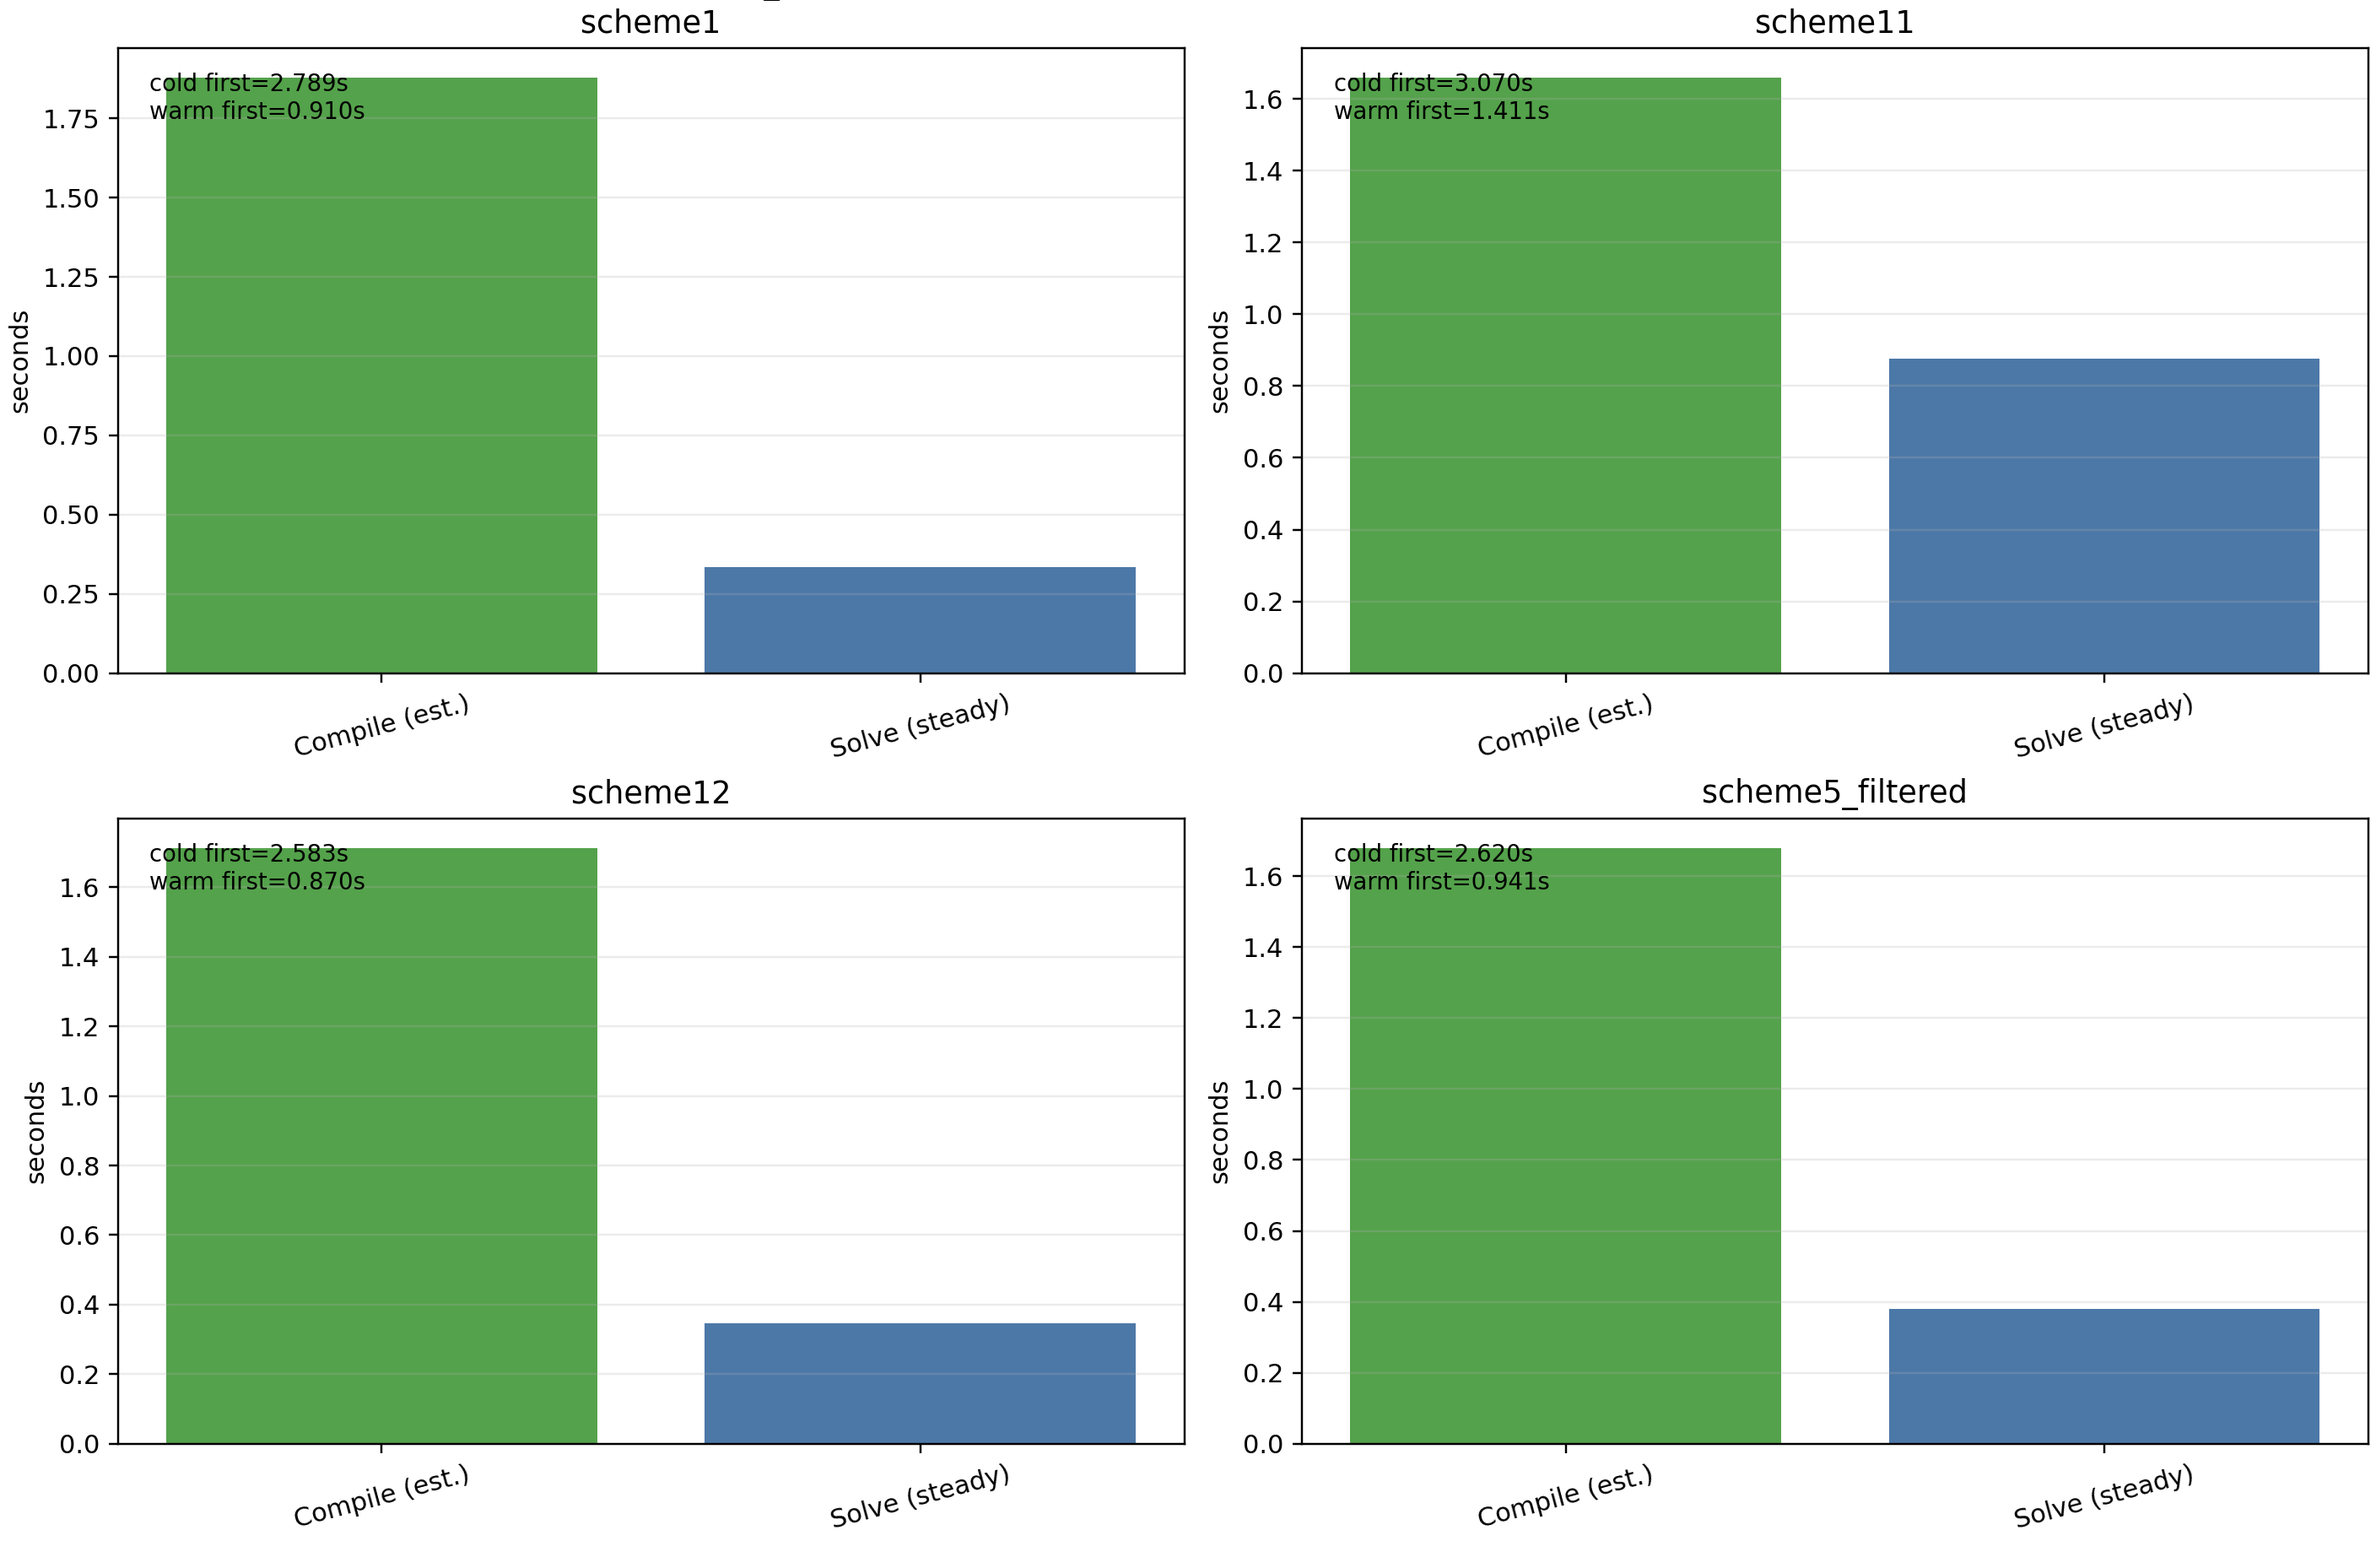
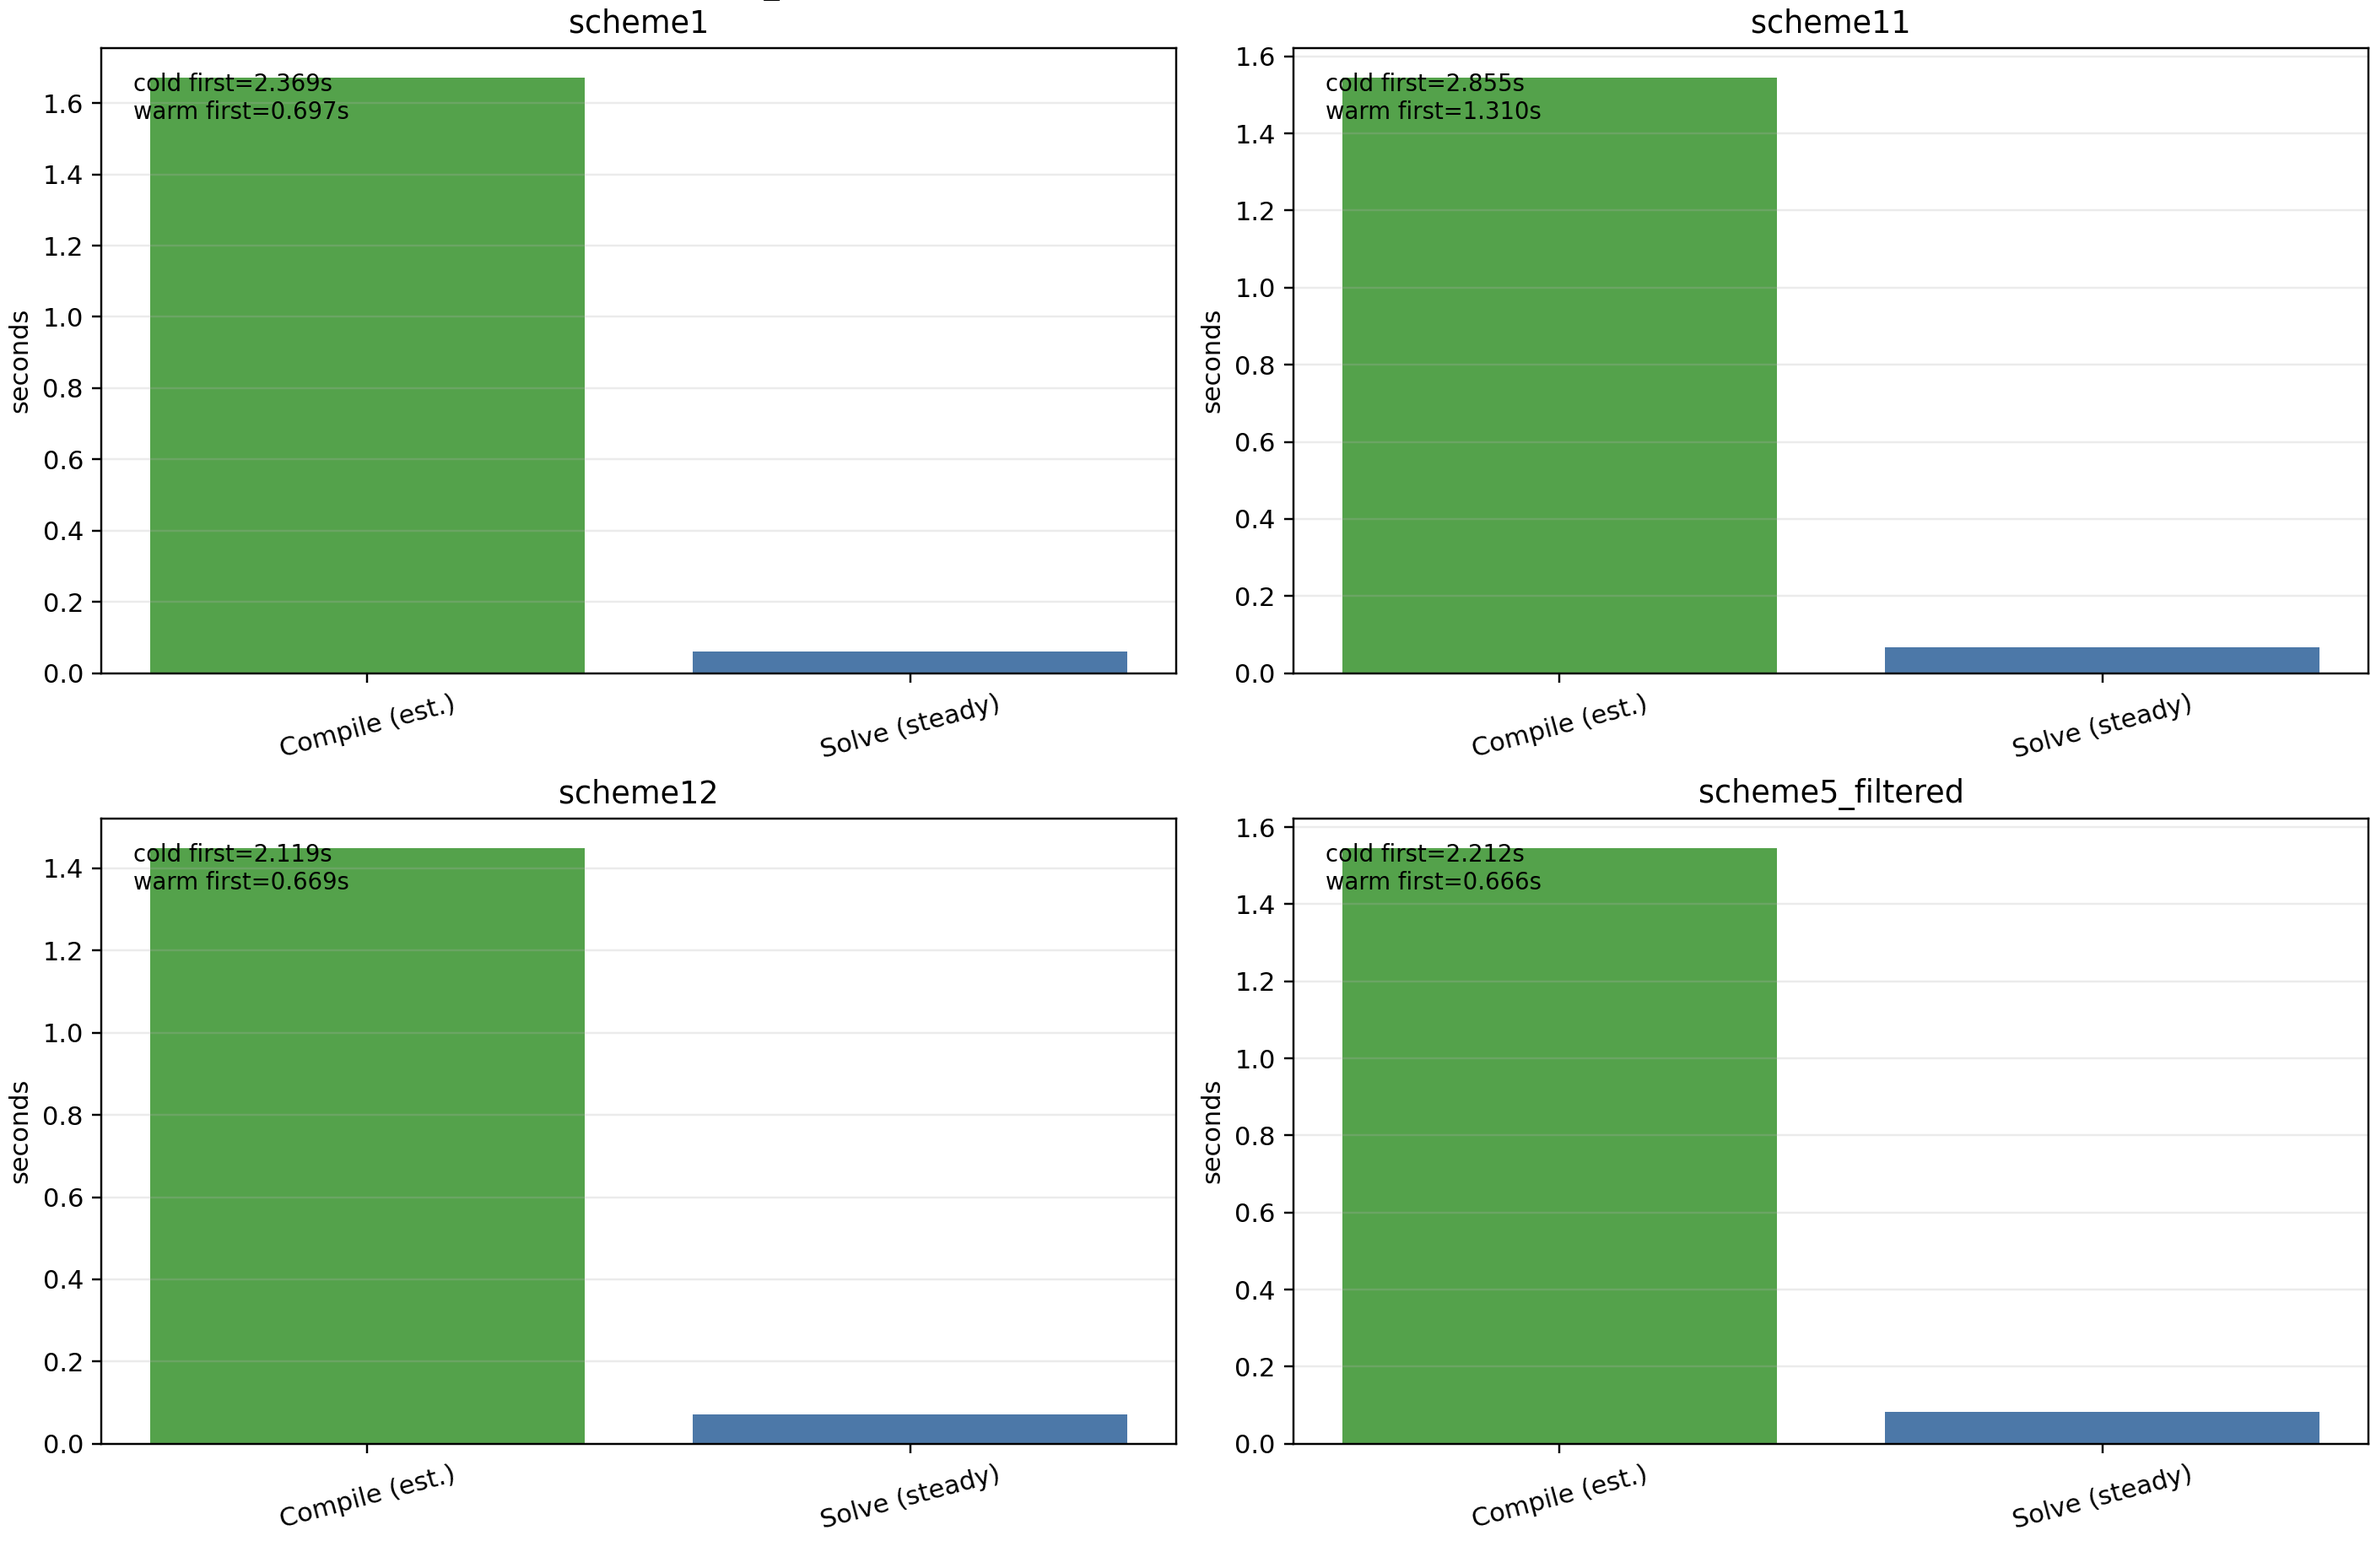
Improve diagnostics performance and cache Boozer parsing

diff --git a/docs/performance.rst b/docs/performance.rst
@@ -49,6 +49,14 @@ JAX-native performance patterns used in `sfincs_jax`
 - **Vectorized RHSMode=1 diagnostics**: vm-only moment/flux accumulation and output shaping are
   stacked/batched in JAX for non-``Phi1`` runs, reducing Python-loop overhead during
   ``write_sfincs_jax_output_h5(..., compute_solution=True)``.
+- **Fast weighted reductions in diagnostics**: transport/rhsmode1 weighted sums now use
+  fused ``einsum`` kernels by default (with an opt-in strict-order fallback), reducing
+  diagnostic accumulation overhead in both RHSMode=1 and RHSMode=2/3 paths.
+- **Cached Boozer `.bc` parsing**: scheme11/12 geometry loading now caches parsed
+  surfaces keyed by file path + stat metadata, removing repeated header/surface parse work
+  within repeated runs and benchmark loops.
+- **Vectorized NTV accumulation across nonlinear iterates**: RHSMode=1 output writing now
+  computes NTV from stacked iterates in one batched JAX call instead of Python per-iterate loops.
 - **Auto active-DOF reduction for RHSMode=1 (no Phi1)**: when ``Nxi_for_x`` truncates
   the pitch basis, the linear solve now reduces to active unknowns by default, cutting
   both matrix-free solve cost and JIT work on upstream-style reduced cases.
@@ -171,6 +179,9 @@ opt-in environment variables:
   override dense solve regularization strength for singular/near-singular systems.
 - ``SFINCS_JAX_DENSE_SINGULAR_MODE``:
   choose singular branch handling in dense solves (default regularized mode; ``lstsq`` for minimum-norm).
+- ``SFINCS_JAX_STRICT_SUM_ORDER``:
+  force explicit loop-order weighted sums in diagnostics (debug/parity mode); by default
+  fast fused ``einsum`` reductions are used.
 
 
 Reference benchmark figure (README/index)
@@ -186,7 +197,7 @@ comparison figure used in ``README.md`` and the docs index:
 By default this uses frozen Fortran fixtures from ``tests/ref`` (no local Fortran runtime required).
 If a local Fortran executable is available, pass ``--fortran-exe /path/to/sfincs`` for live runs.
 
-Latest live-run snapshot (4 repeats, compile excluded for JAX):
+Latest frozen-fixture snapshot (4 repeats, compile excluded for JAX):
 
 .. list-table::
    :header-rows: 1
@@ -197,21 +208,21 @@ Latest live-run snapshot (4 repeats, compile excluded for JAX):
      - sfincs_jax mean (s/run)
      - max abs(ΔL11)
    * - ``scheme1``
-     - 0.0856
-     - 3.4905
-     - 3.08e-13
+     - 0.0275
+     - 0.0948
+     - 3.11e-13
    * - ``scheme11``
-     - 0.2504
-     - 5.0020
-     - 1.10e-15
+     - 3.6393
+     - 0.8015
+     - 1.35e-15
    * - ``scheme12``
-     - 0.1154
-     - 4.4669
-     - 7.43e-08
+     - 0.0089
+     - 0.1090
+     - 8.83e-08
    * - ``scheme5_filtered``
-     - 0.1501
-     - 4.7881
-     - 5.20e-17
+     - 2.9621
+     - 0.1191
+     - 6.57e-16
 
 Persistent-cache compile/runtime split
 --------------------------------------
@@ -239,17 +250,17 @@ Latest snapshot (3 repeats):
      - Compile estimate (s)
      - Warm steady solve (s/run)
    * - ``scheme1``
-     - 1.8789
-     - 0.3344
+     - 1.6720
+     - 0.0612
    * - ``scheme11``
-     - 1.6594
-     - 0.8750
+     - 1.5451
+     - 0.0676
    * - ``scheme12``
-     - 1.7134
-     - 0.3454
+     - 1.4497
+     - 0.0718
    * - ``scheme5_filtered``
-     - 1.6797
-     - 0.3801
+     - 1.5458
+     - 0.0816
 
 
 Connection to MONKES / adjoint methods

diff --git a/README.md b/README.md
@@ -23,14 +23,14 @@ python examples/performance/benchmark_transport_l11_vs_fortran.py \
   --repeats 4
 ```
 
-Current benchmark snapshot (live executable, 4 repeats, JAX runtime excludes compilation):
+Current benchmark snapshot (frozen fixtures, 4 repeats, JAX runtime excludes compilation):
 
 | Case | Fortran mean (s/run) | sfincs_jax mean (s/run) | Max \|ΔL11\| |
 | --- | ---: | ---: | ---: |
-| scheme1 | 0.0856 | 3.4905 | 3.08e-13 |
-| scheme11 | 0.2504 | 5.0020 | 1.10e-15 |
-| scheme12 | 0.1154 | 4.4669 | 7.43e-08 |
-| scheme5_filtered | 0.1501 | 4.7881 | 5.20e-17 |
+| scheme1 | 0.0275 | 0.0948 | 3.11e-13 |
+| scheme11 | 3.6393 | 0.8015 | 1.35e-15 |
+| scheme12 | 0.0089 | 0.1090 | 8.83e-08 |
+| scheme5_filtered | 2.9621 | 0.1191 | 6.57e-16 |
 
 Outputs are written to:
 
